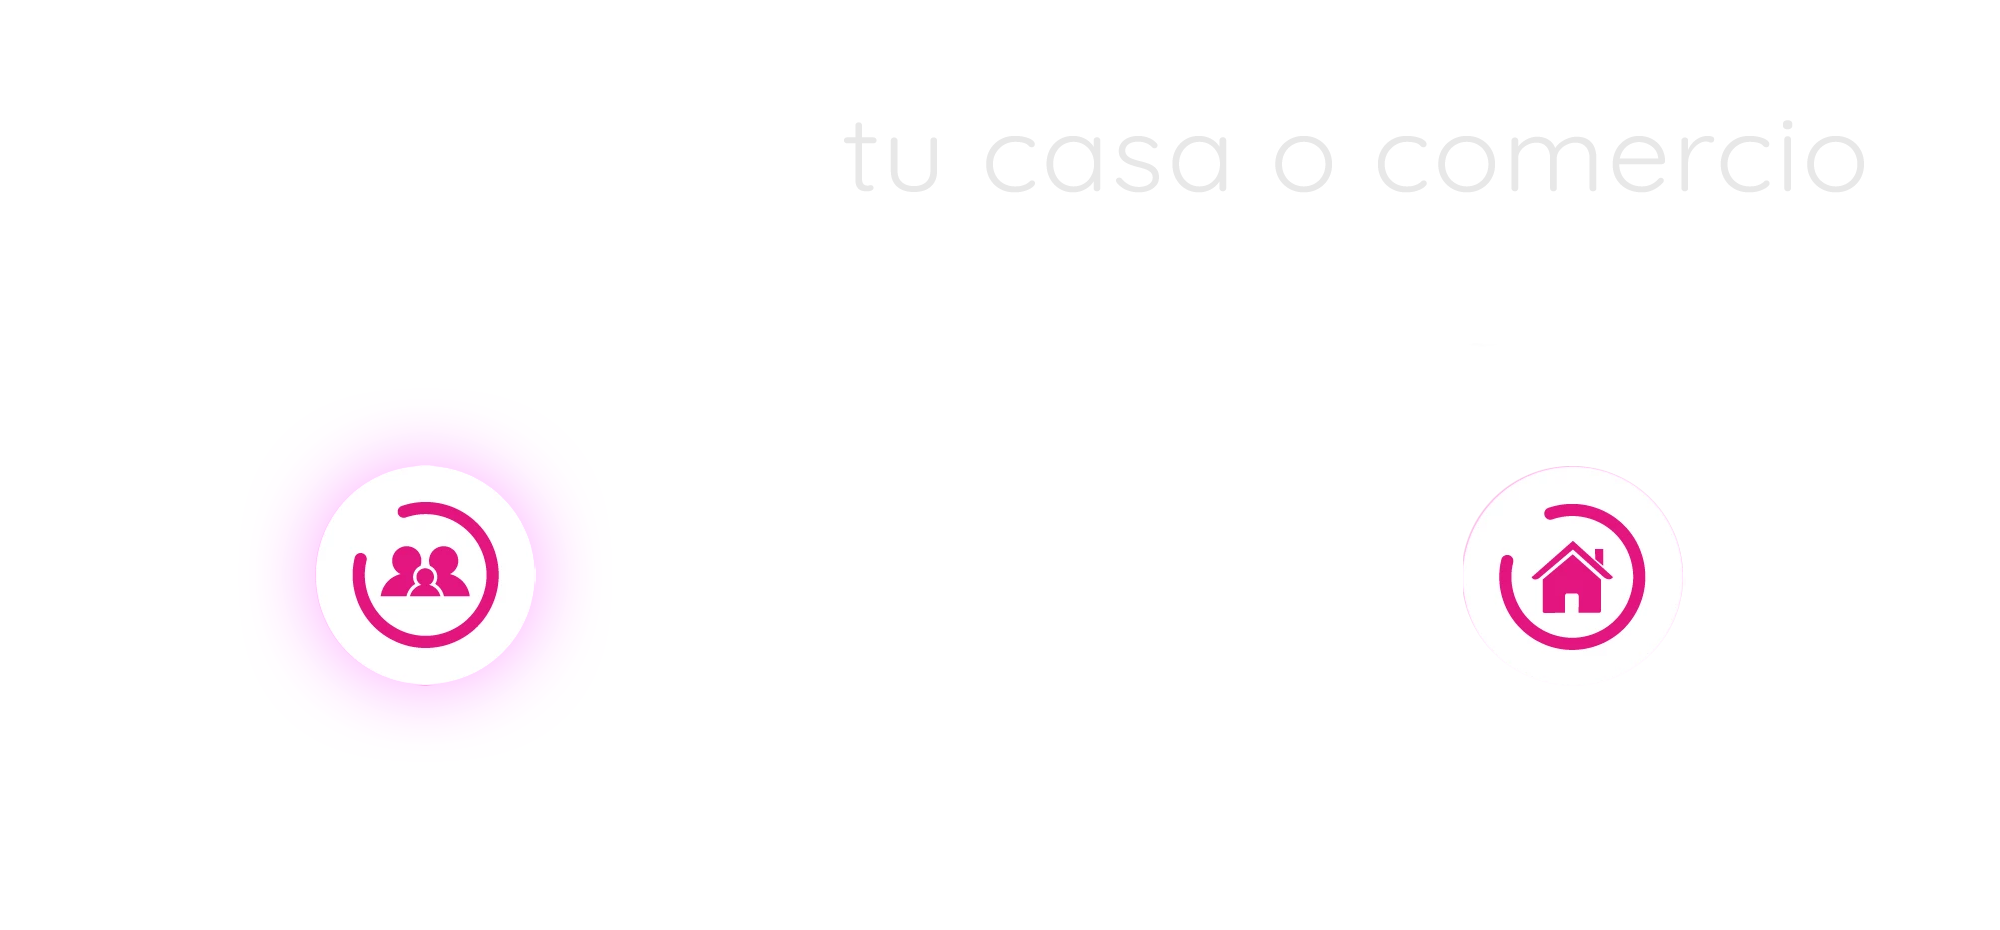
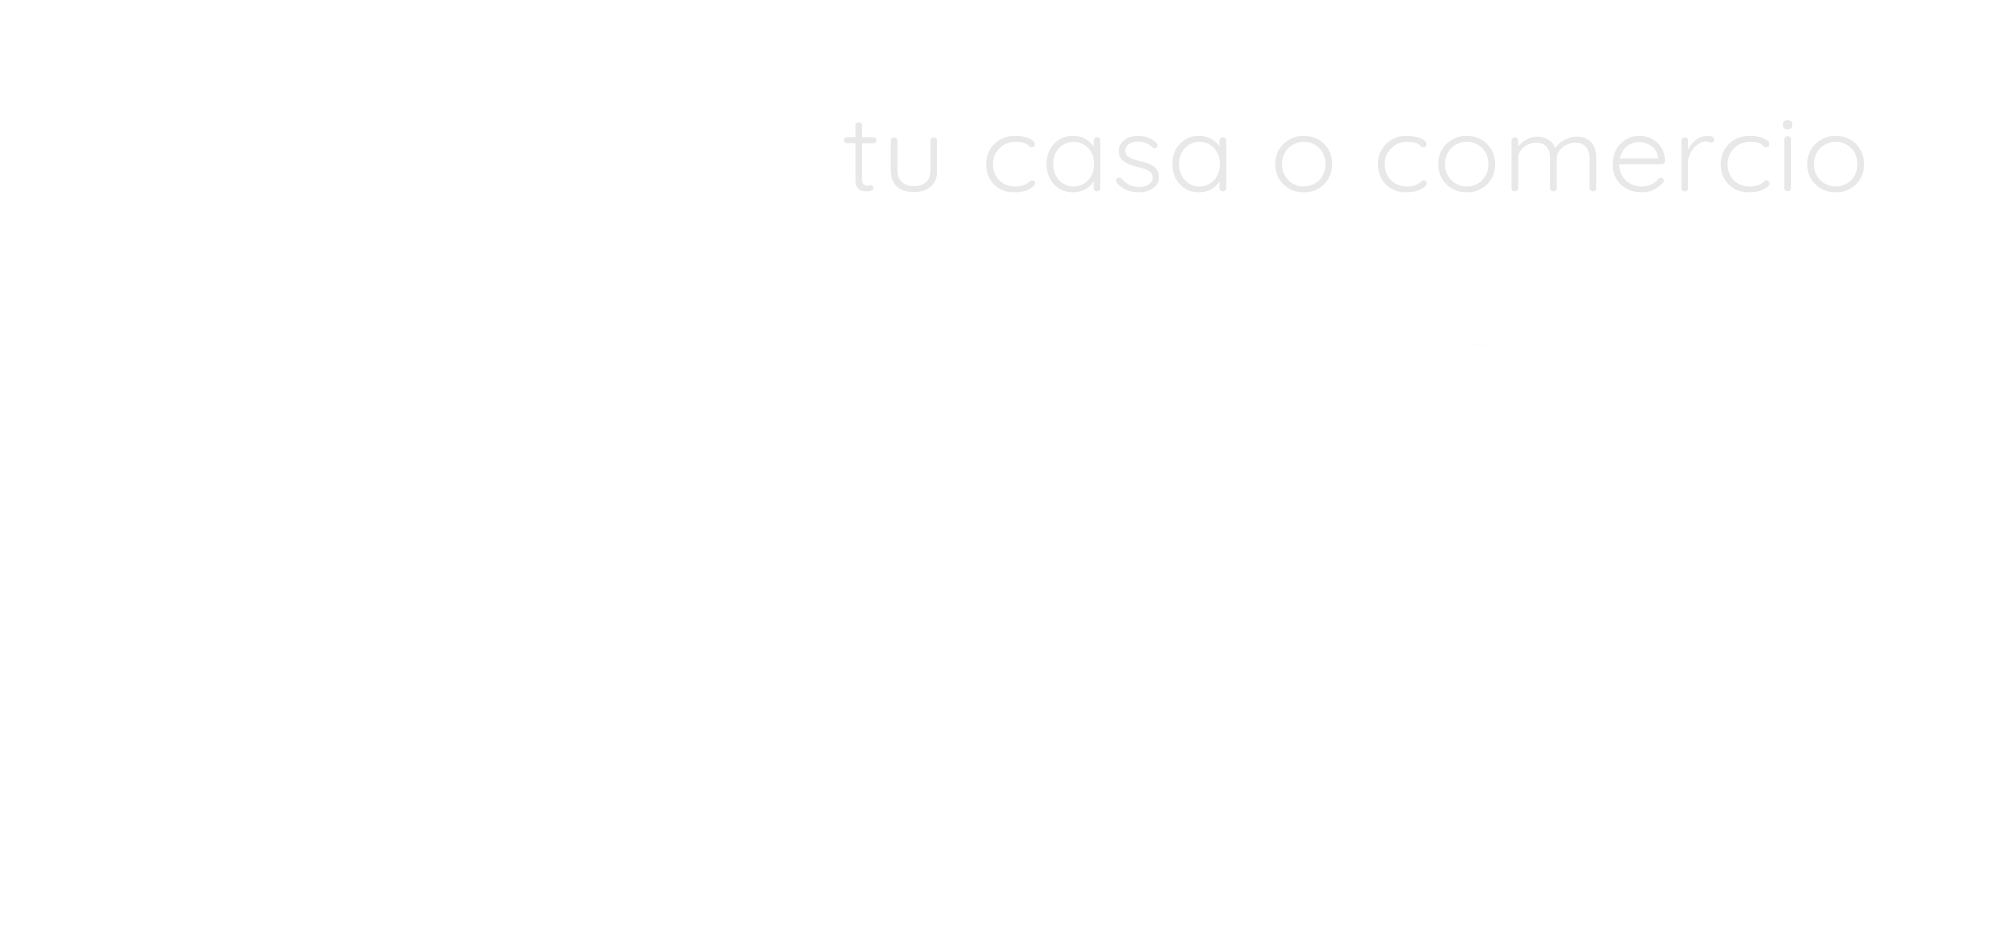
test

Changed region(s): [[0.124, 0.4677, 0.279, 0.7484], [0.744, 0.5301, 0.837, 0.7172]]

diff --git a/alarmasargentinas/index.html b/alarmasargentinas/index.html
@@ -114,28 +114,28 @@
         </div>
         <div class="carousel-inner">
           <div class="carousel-item active" data-bs-interval="10000">
-            <img src="img/primarias/1.png" class="d-block mx-auto img-fluid" alt="..." width="1200rem">
-            <div class="carousel-caption  d-md-block">
-              <button
-              type="button"
-              class="btn btn-primary text-center"
-              data-bs-toggle="modal"
-              data-bs-target="#exampleModal"
-            >
-              CONTACTANOS AHORA
-            </button>
-            </div>
-          </div>
-          <div class="carousel-item" data-bs-interval="2000">
             <img src="img/primarias/2.png" class="d-block mx-auto img-fluid" alt="..." width="1200rem">
             <div class="carousel-caption  d-md-block">
               <button
               type="button"
-              class="btn btn-primary text-center"
+              class="btn btn-primary text-center text-dark"
               data-bs-toggle="modal"
               data-bs-target="#exampleModal"
             >
-              CONTACTANOS AHORA
+              <strong>CONTACTANOS AHORA</strong>
+            </button>
+            </div>
+          </div>
+          <div class="carousel-item" data-bs-interval="2000">
+            <img src="img/primarias/1.png" class="d-block mx-auto img-fluid" alt="..." width="1200rem">
+            <div class="carousel-caption  d-md-block">
+              <button
+              type="button"
+              class="btn btn-primary text-center text-dark"
+              data-bs-toggle="modal"
+              data-bs-target="#exampleModal"
+            >
+              <strong>CONTACTANOS AHORA</strong>
             </button>
             </div>
           </div>
@@ -144,11 +144,11 @@
             <div class="carousel-caption  d-md-block">
               <button
               type="button"
-              class="btn btn-primary text-center"
+              class="btn btn-primary text-center text-dark"
               data-bs-toggle="modal"
               data-bs-target="#exampleModal"
             >
-              CONTACTANOS AHORA
+              <strong>CONTACTANOS AHORA</strong>
             </button>
             </div>
           </div>
@@ -333,10 +333,32 @@
     </section>
     <section class="strix">
       <div class="container">
+      <div id="carouselExampleInterval" class="carousel slide" data-bs-ride="carousel">
+        <div class="carousel-inner">
+          <div class="carousel-item active" data-bs-interval="4000">
+            <img src="img/celulares/celu1.png" class="d-block w-100 img-fluid" alt="...">
+          </div>
+          <div class="carousel-item" data-bs-interval="2000">
+            <img src="img/celulares/celu2.png" class="d-block w-100 img-fluid" alt="...">
+          </div>
+          <div class="carousel-item" data-bs-interval="2000">
+            <img src="img/celulares/celu3.png" class="d-block w-100 img-fluid" alt="...">
+          </div>
+          <div class="carousel-item" data-bs-interval="2000">
+            <img src="img/celulares/celu4.png" class="d-block w-100 img-fluid" alt="...">
+          </div>
+          <div class="carousel-item" data-bs-interval="2000">
+            <img src="img/celulares/celu5.png" class="d-block w-100 img-fluid" alt="...">
+          </div>
+        </div>
+
+      </div>
+    </div>
+ <!--      <div class="container alturita">
         <div class="row align-items-center">
           <div class="col-sm-12 col-md-4 text-left">
-            <h2 class="">CONTROLÁ TU HOGAR</h2>
-            <p class="animate__animated animate__lightSpeedInRight animate__repeat-1 fw-bold">
+            <h2 class=""><strong>CONTROLÁ TU HOGAR</strong></h2>
+            <p class="animate__animated animate__lightSpeedInRight animate__repeat-1 fw-bold text-white">
               Sistema de alarma inteligente que cuenta con una aplicación a
               través de la cual podes activar o desactivar tu alarma, llevar un
               registro de entradas y salidas, administrar una cuenta familiar,
@@ -365,8 +387,8 @@
           </div>
           <div class="col-sm-12 col-md-4 text-right">
             <br />
-            <h2 class="">CONTROLÁ TU COMERCIO</h2>
-            <p class="animate__animated animate__lightSpeedInLeft animate__repeat-1 fw-bold">
+            <h2 class=""><strong>CONTROLÁ TU COMERCIO</strong></h2>
+            <p class="animate__animated animate__lightSpeedInLeft animate__repeat-1 fw-bold text-white">
               Sistema Inteligente Para Negocios, esta diseñado para los
               propietarios de pequeñas y medianas empresas, contamos con el
               sistema de seguridad para negocios más inteligente que combina
@@ -386,7 +408,7 @@
             </p>
           </div>
         </div>
-      </div>
+      </div> -->
     </section>
     <section class="planes">
       <div class="container-fluid">
@@ -538,8 +560,8 @@
             <div class="d-flex" id="displayresponsive">
             <img src="img/celuinfo.png" class="img-fluid redondo efecto" alt="">
             <div class="flex-column ms-3 mt-3">
-            <h2 class="fw-bold">FÁCIL DE USAR</h2>
-            <p class="fst-italic fw-bold">Además de poder activar y desactivar la alarma de tu casa o tu hogar a través de la aplicación, también podrás ver todos los movimientos con una excelente precisión temporal.
+            <h2 class="fw-bold text-danger">FÁCIL DE USAR</h2>
+            <p class="fst-italic fw-bold text-white">Además de poder activar y desactivar la alarma de tu casa o tu hogar a través de la aplicación, también podrás ver todos los movimientos con una excelente precisión temporal.
               <br>
               <br>
               Protege tu local o tu hogar de forma personalizada, con instalación gratis y con el abono más económico del mercado.</p>
@@ -554,7 +576,7 @@
           </div>
           <h5 class="mb-3">Maria Smantha</h5>
           <h6 class="text-danger  mb-3">Cliente habitual de AlarmasArgentinas.</h6>
-          <p class="px-xl-3 fw-bold">
+          <p class="px-xl-3 fw-bold text-white">
             <i class='bx bxs-quote-alt-left bx-tada' ></i>Queria agradecer a Alarmas Argentina por su responsabilidad y compromiso con la gente, totalmente recomendable. Todos mis domicilios los tengo protegidos y los controlo desde el celular ¡Increible!<i class='bx bxs-quote-alt-right bx-tada' ></i>
           </p>
           <ul class="list-unstyled d-flex justify-content-center mb-0">

diff --git a/alarmasargentinas/style.css b/alarmasargentinas/style.css
@@ -46,7 +46,12 @@ body {
   background-size: cover;
   background-repeat: repeat-x;
 
-  margin-bottom: 5rem;
+}
+
+.alturita {
+
+padding-top: 15rem !important;
+  
 }
 
 .rgb-text {
